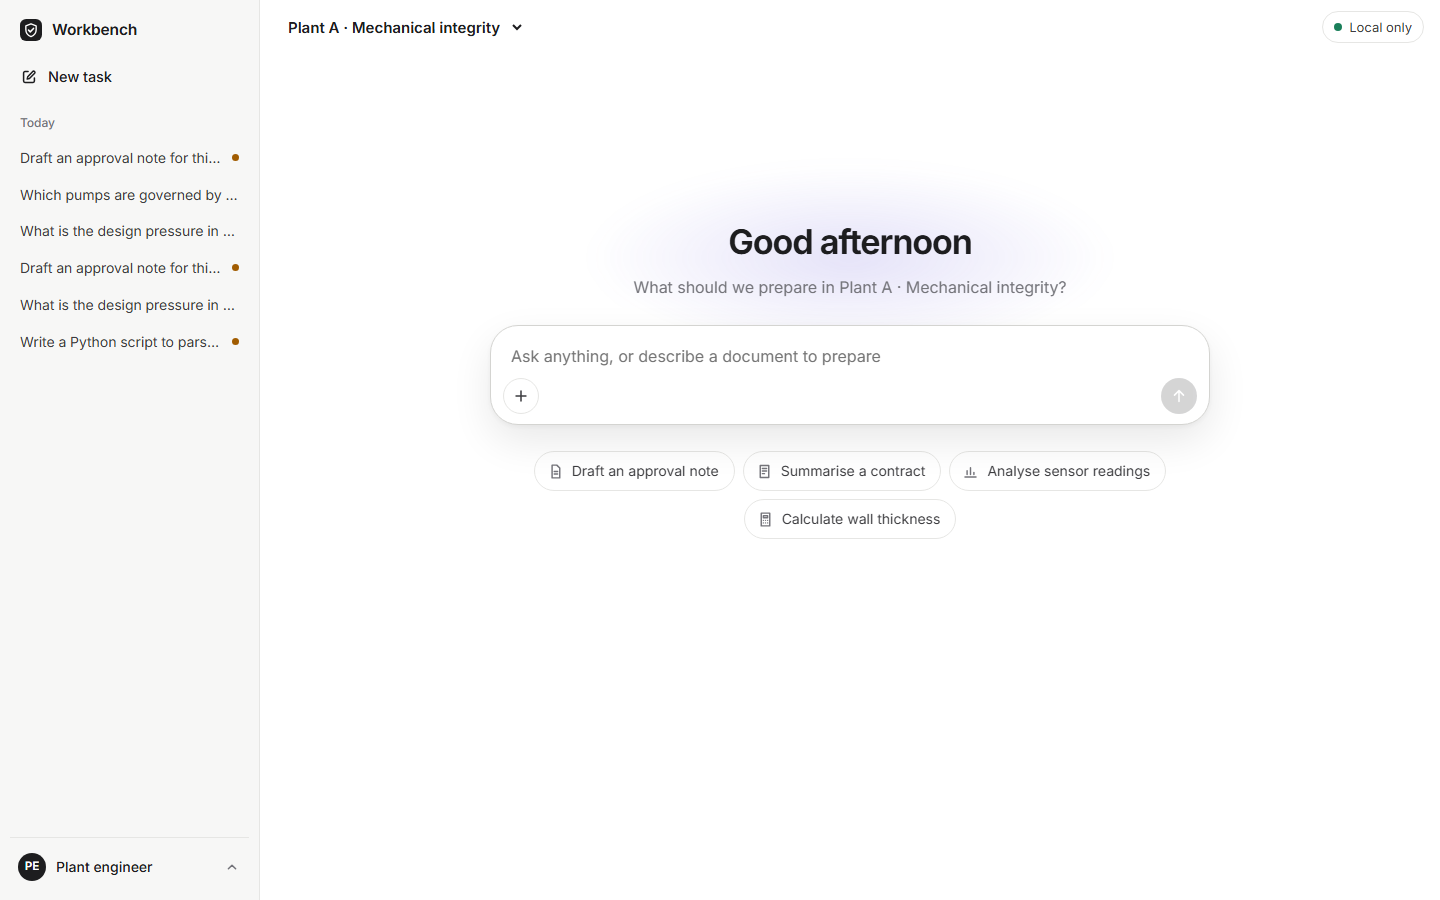
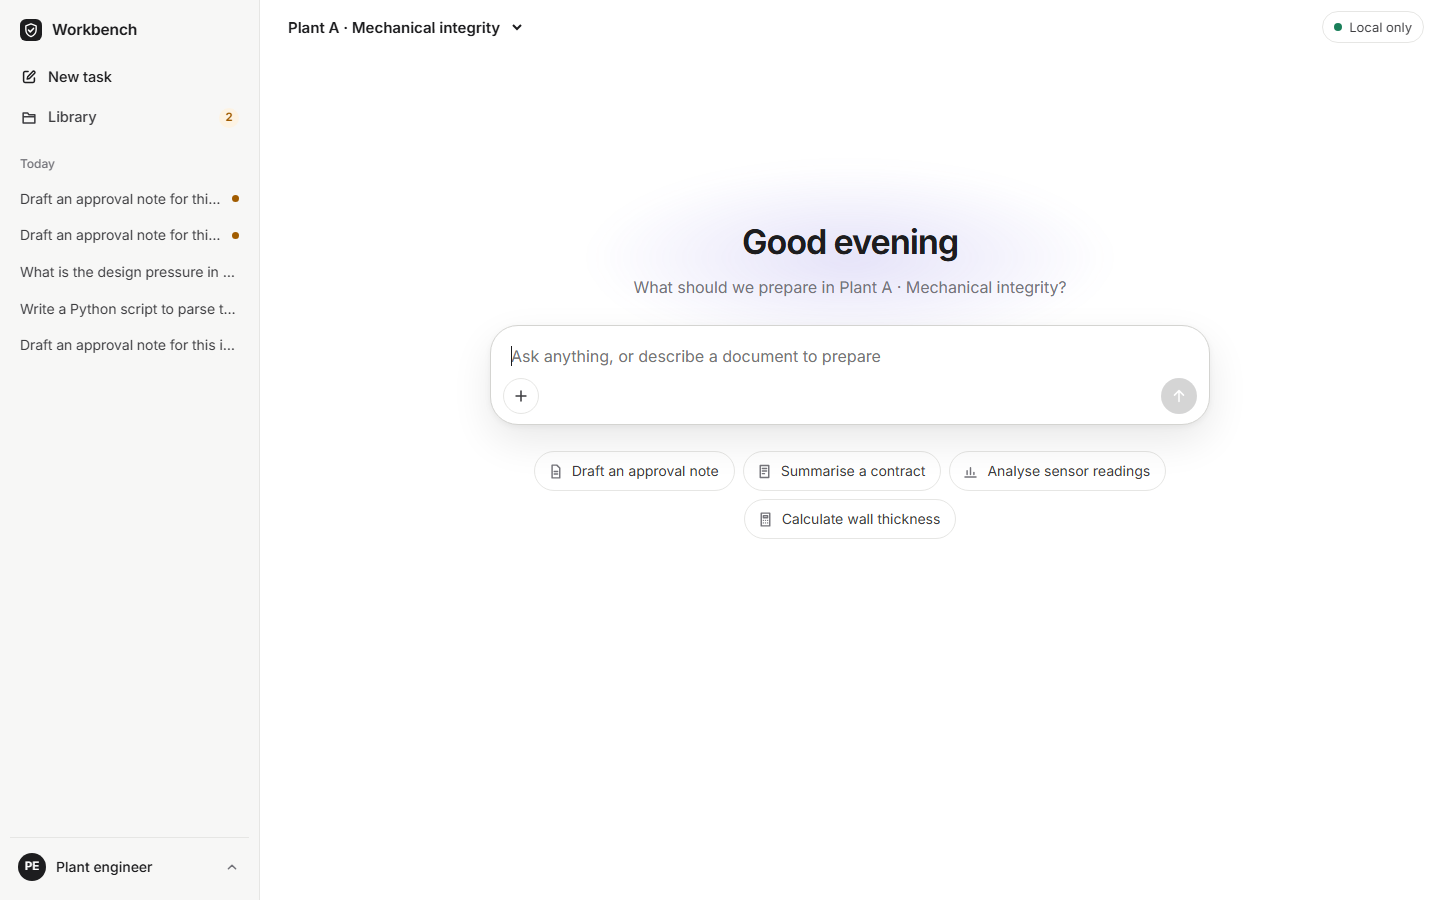
Document the library, the motion model and the browser tests

diff --git a/README.md b/README.md
@@ -220,12 +220,15 @@ The interface is deliberately plain: a sidebar with your recent tasks, one box t
 | Screen | What you do there |
 |---|---|
 | **Home** | Type a request, attach files with the paperclip (or upload new ones), or pick a suggestion. |
+| **Library** | Every generated file grouped by task and day, every decision in a timeline, and everything waiting on you. Search across all of it and filter documents by type. |
 | **Task** | Approve, edit or cancel the plan, allow file-creating steps, follow progress, read answers with numbered sources, download files. **Details** opens the technical record: activity log, evidence, model choice and checks. |
 | **Review** | Read the draft, click any figure or source number to see where it came from, mark issues as reviewed, fix figures without a source, then approve or request changes. |
 | **Models** | See which models are ready, asleep or being evaluated, and how well each does per kind of work. |
 | **Security** | See that nothing has left the server, run a network test, check the audit log and handle approval requests. |
 
-The account menu (bottom left) switches the signed-in user in development and links to Models and Security. The top bar shows the classification of the open task and the network status. The interface follows the system light or dark theme and works on phone screens.
+The account menu (bottom left) switches the signed-in user in development and links to Models and Security. The top bar shows the classification of the open task and the network status. The interface follows the system light or dark theme, works on phone screens, and animates every change (tabs slide, panels glide, lists update in place) so nothing jumps.
+
+![Library](docs/images/library.png)
 
 ![Dark theme](docs/images/home-dark.png)
 
@@ -301,6 +304,7 @@ python scripts/dev.py lint            # ruff and strict mypy on the core package
 python scripts/dev.py go-test         # Go unit tests with coverage
 python scripts/dev.py go-lint         # gofmt, go vet, no third-party modules
 python scripts/dev.py go-integration  # builds both daemons and runs the contract tests against them
+python -m pytest tests/ui             # optional: drives the interface in Chrome (needs Playwright)
 ```
 
 - Tests run with network access blocked (`pytest-socket`); only loopback is allowed.

diff --git a/docs/API.md b/docs/API.md
@@ -2,7 +2,7 @@
 
 The workbench exposes a JSON API under `/api`, served by FastAPI on `127.0.0.1:8080` (TLS for the plant LAN is terminated by nginx, see [DEPLOYMENT.md](DEPLOYMENT.md)). The UI uses nothing else, so everything the UI can do can be scripted. The two host daemons expose small HTTP APIs of their own over Unix sockets.
 
-Interactive OpenAPI documentation is available at `http://127.0.0.1:8080/docs` while the server runs.
+Interactive OpenAPI documentation is available at `http://127.0.0.1:8080/api/docs` while the server runs.
 
 ## Contents
 
@@ -178,6 +178,28 @@ Approval returns `409` with the blockers while mismatches are unacknowledged or 
 | `GET /api/egress/events?since=&limit=` | Recent blocked attempts. |
 | `GET /api/audit/verify` | Recompute the audit hash chain: `{ok, entries, latest_hash, broken_at}`. |
 | `GET /api/audit/tail?n=40` | Security officer, admin or document owner. The latest audit entries. |
+
+## Library
+
+### `GET /api/library?workspace=`
+
+Every task the caller may see, newest first, with what it produced and what was decided:
+
+```json
+{"tasks": [{
+  "id": "T4E7E556B", "text": "Draft an approval note for this inspection report",
+  "workspace": "plant-a", "workspace_title": "Plant A · Mechanical integrity", "user": "engineer1",
+  "status": "awaiting_deliverable", "created_at": "...", "updated_at": "...", "label_display": "Confidential",
+  "files": [{"id": "F...", "name": "approval-note.docx", "path": "drafts/T4E7E556B/approval-note.docx",
+             "final": false, "status": "draft", "size": 39512, "label_display": "Confidential"}],
+  "decisions": [{"kind": "plan", "title": "Plan", "status": "approved", "by": "engineer1", "at": "...", "note": null},
+                {"kind": "action", "title": "Create the Word document", "status": "approved",
+                 "by": "engineer1", "note": "approved with the plan"}],
+  "waiting_for": "deliverable"
+}]}
+```
+
+Tasks in workspaces the caller cannot access, or above the caller's clearance, are left out. The Library page combines this with `GET /api/downgrades`.
 
 ## Knowledge base
 

diff --git a/docs/DECISIONS.md b/docs/DECISIONS.md
@@ -38,6 +38,7 @@ The implementation follows [`design/IMPLEMENTATION_PRD.md`](design/IMPLEMENTATIO
 | D30 | Files | Drafts and final files live in a folder per task |
 | D31 | UI | Inter is bundled as a local font |
 | D32 | API | Tasks carry a revision counter for change detection |
+| D33 | UI | Pages update in place instead of being rebuilt |
 
 ---
 
@@ -208,3 +209,9 @@ The implementation follows [`design/IMPLEMENTATION_PRD.md`](design/IMPLEMENTATIO
 
 **Decision:** Every task carries `revision_no`, which increases on every save (the store takes the highest known value, so a stale copy saved later still moves it forward). The UI redraws when it changes.
 **Why:** `updated_at` has one-second resolution. A task that moved through several steps within the same second looked unchanged to the page, which then stayed on "working" until it was reloaded. Code: `workbench/agent/state.py::TaskStore.save`.
+
+### D33. Pages update in place
+
+**Decision:** The interface keeps a small in-place updater (`fill` in `app.js`): a new render is compared with what is on screen, matching elements are patched (text, attributes, handlers), keyed rows are moved rather than recreated, and only genuinely new elements animate in. Height changes animate, tab bars and panels that own their own state are marked `data-keep`, and text the user is typing is never overwritten.
+**Why:** Replacing whole sections on every poll made the page flicker, collapsed open sections and reset scroll positions. A framework would need a build step and third-party code, which the air-gapped design avoids. The browser tests check that the conversation element survives a whole task run.
+

diff --git a/docs/DEVELOPMENT.md b/docs/DEVELOPMENT.md
@@ -132,6 +132,7 @@ flowchart TB
 | Property tests (`hypothesis`) cover tag and unit normalisation, date parsing and the label algebra. | The rules hold for inputs nobody thought of. |
 | `WB_GO_BINARIES=1` switches the contract tests to the real daemons. | The Python fakes cannot drift from the Go behaviour. |
 | `tests/unit/test_repo_hygiene.py` scans text files for em dashes and checks `app.js` with `node --check`. | Keeps the documentation style and catches UI syntax errors that no Python test would see. |
+| `tests/ui` drives the real interface in Chrome through Playwright: a task from the home page to approval, the Details panel, and the Library tabs, including that the tab highlight slides and that updates patch the page in place. | Interaction bugs (a page that stops updating, a tab that does not switch) only show up in a browser. The tests skip themselves when Playwright or Chrome is missing; install Playwright with `pip install playwright`, no browser download is needed. |
 
 Useful selections:
 
